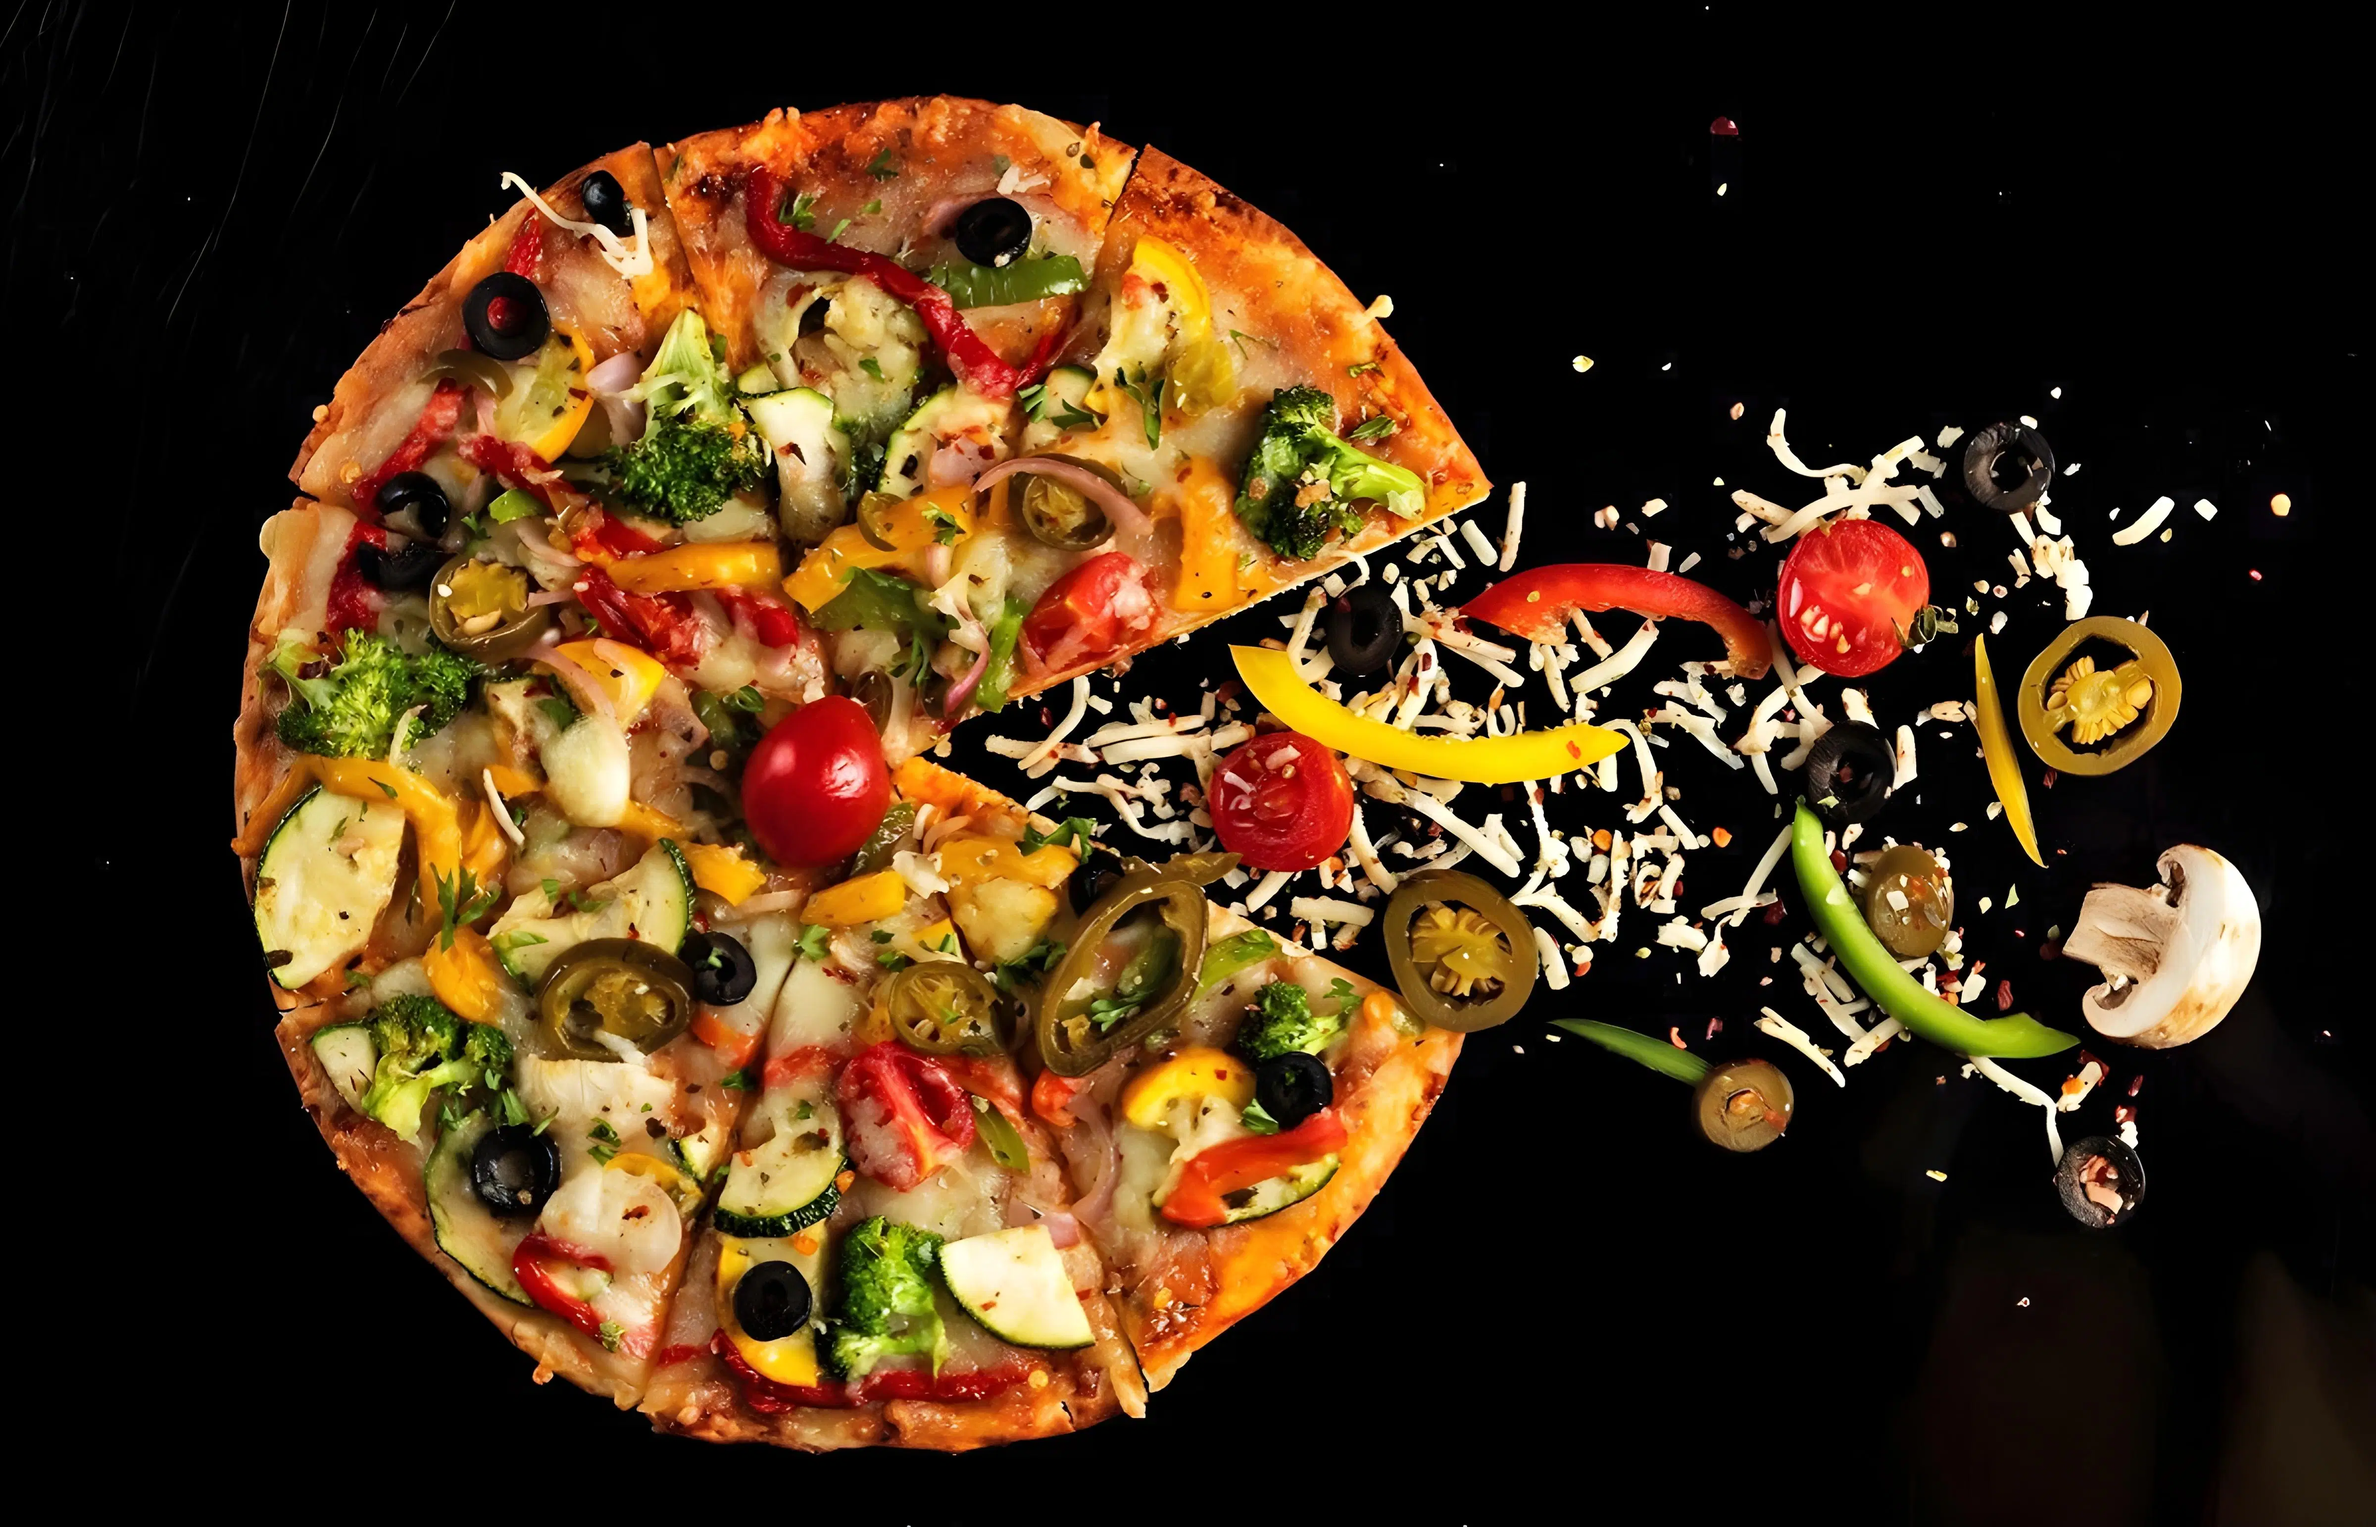
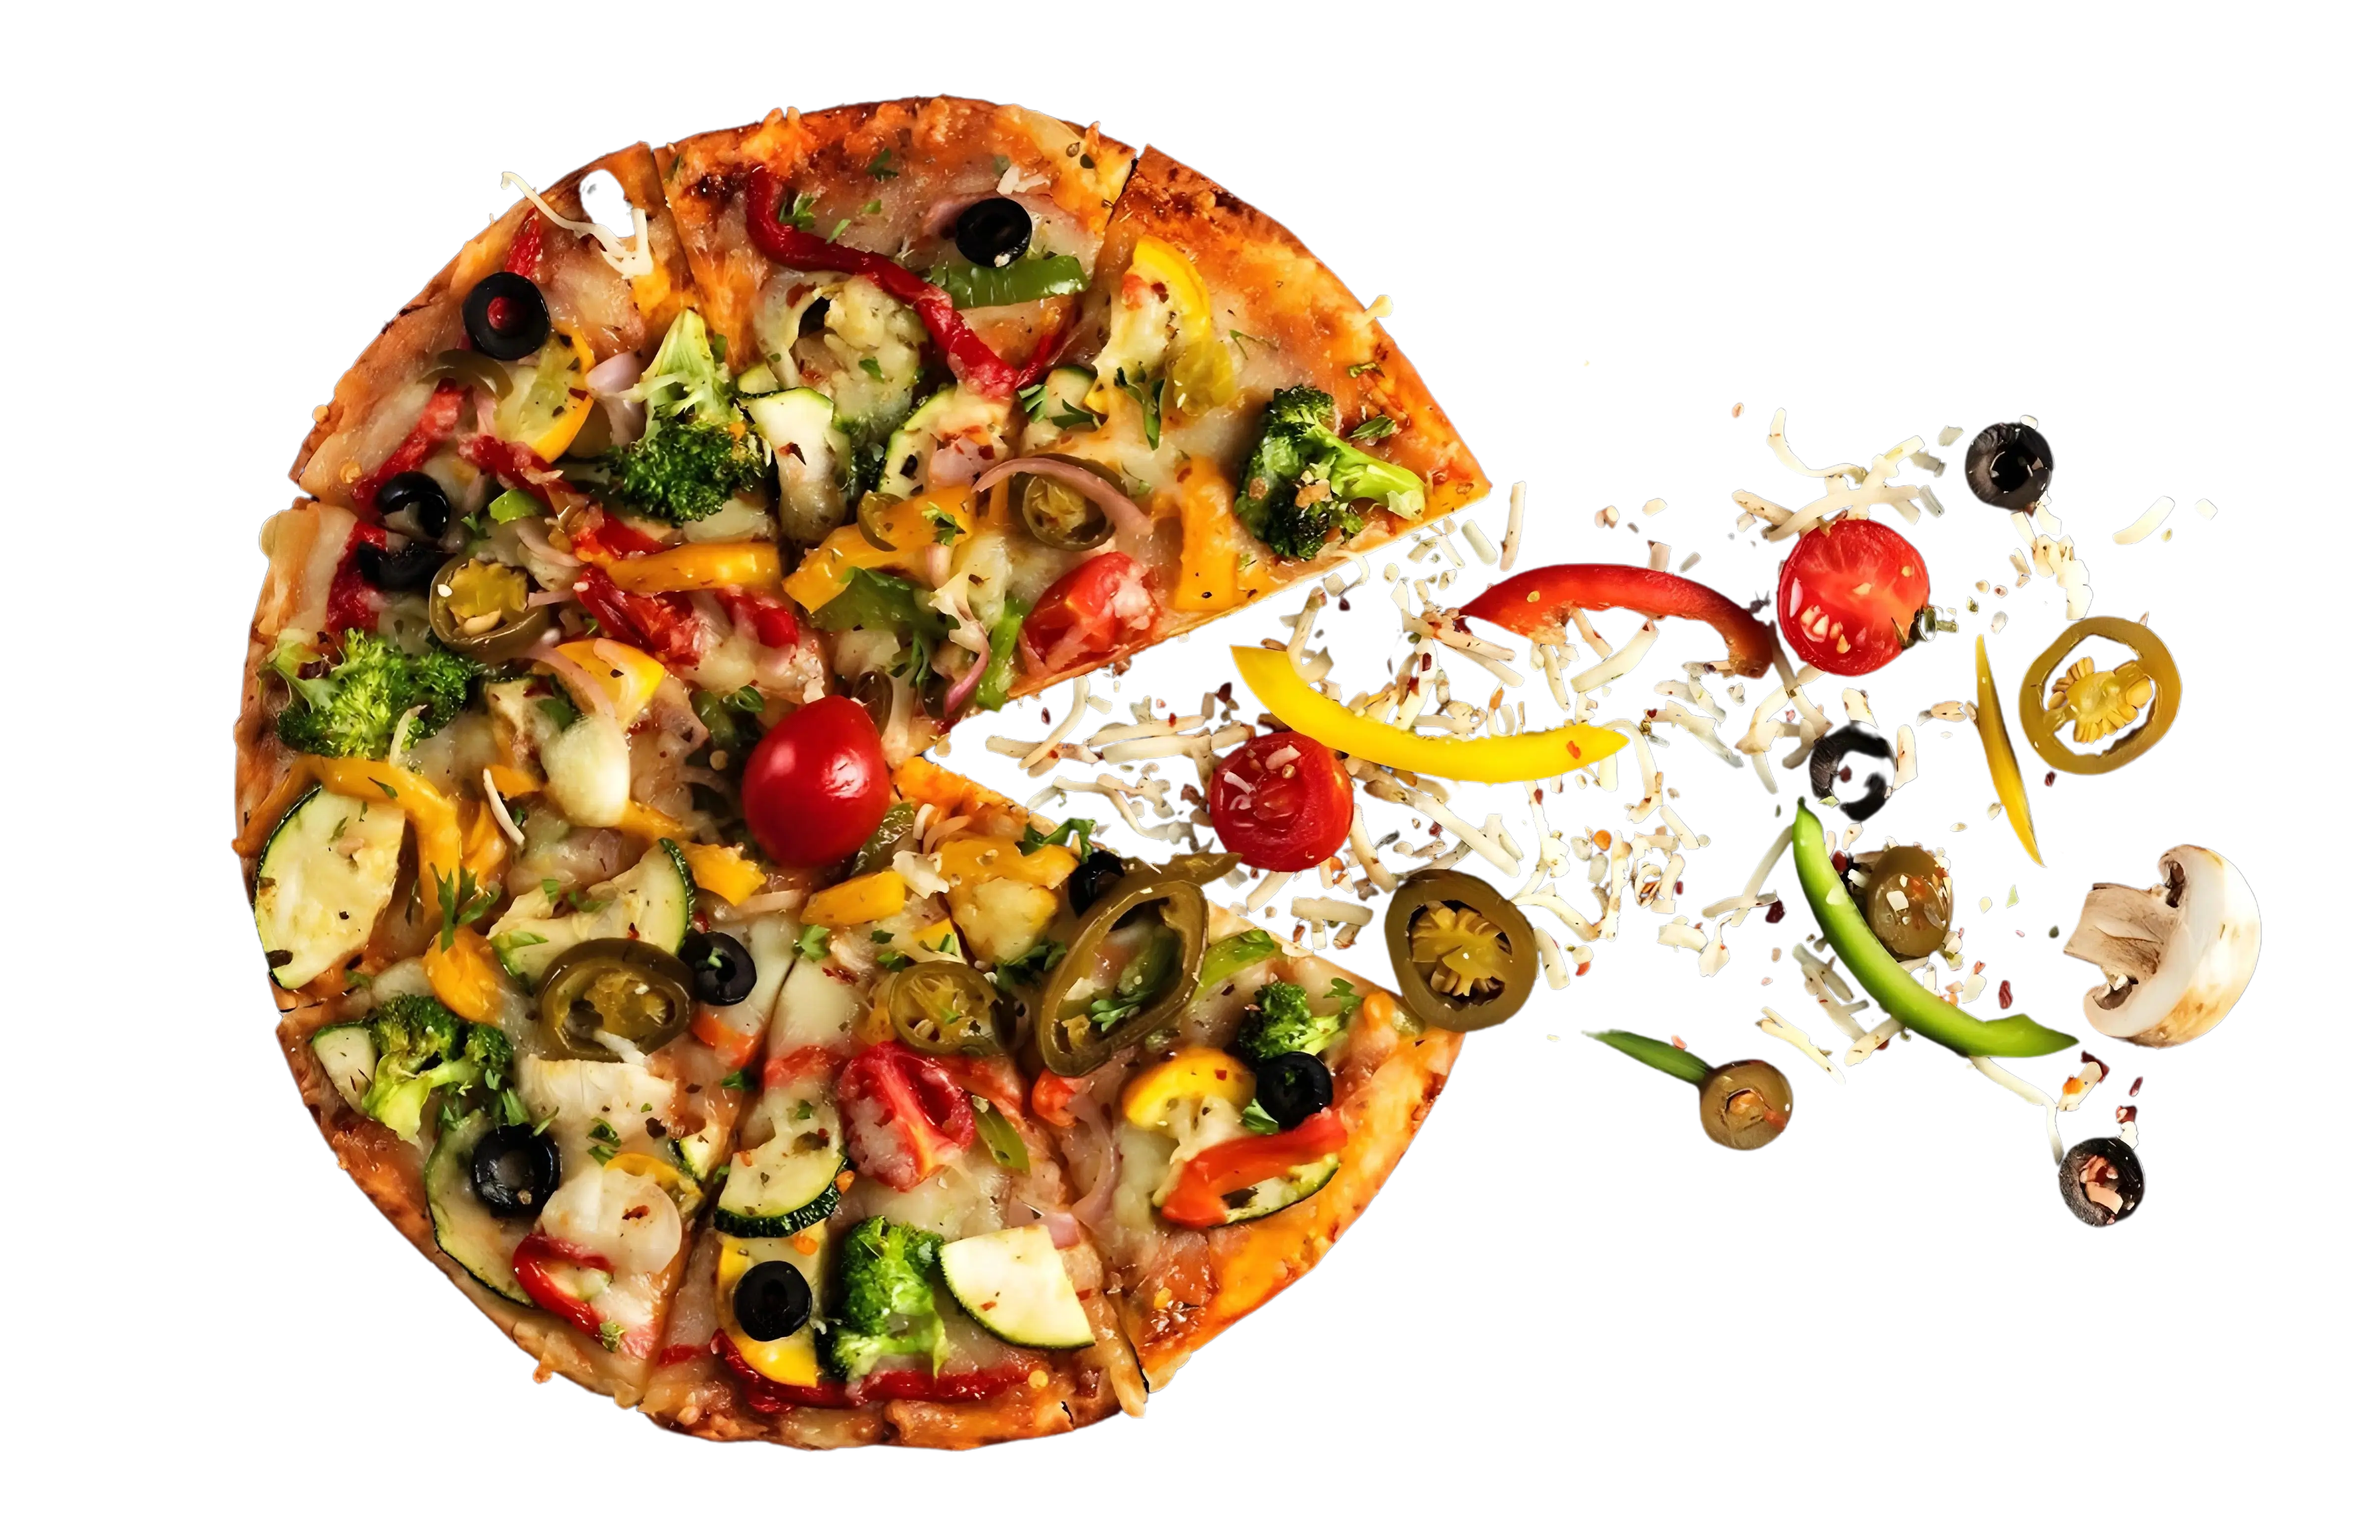
feat : compressing image size to increase the speed and reduce file size

diff --git a/src/app/page.tsx b/src/app/page.tsx
@@ -13,7 +13,7 @@ export default function Home() {
         <div
           className="h-full w-full flex items-center relative"
           style={{
-            backgroundImage: "url(/img/bg/header-bg.png)",
+            backgroundImage: "url(/img/bg/header-bg.webp)",
           }}
         >
           <div className="container w-full flex items-center mt-10 lg:justify-center relative">
@@ -42,7 +42,7 @@ export default function Home() {
             </div>
             <div className="flex-[5] hidden lg:block">
               <Image
-                src="/img/pizza.png"
+                src="/img/pizza.webp"
                 alt="pizza-image"
                 className="w-[800px] h-[600px] object-cover"
                 width={2000}
@@ -65,7 +65,7 @@ export default function Home() {
         </div>
       </div>
       <IntroVideo />
-      <div style={{ background: "url(/img/bg/meal-bg.png)" }}>
+      <div style={{ background: "url(/img/bg/meal-bg.webp)" }}>
         <div className="container mt-20">
           <div className="section-title text-center mb-65">
             <span> POPULAR</span>

diff --git a/src/app/about/IntroVideo.tsx b/src/app/about/IntroVideo.tsx
@@ -10,7 +10,7 @@ const IntroVideo = () => {
       id="video"
       className="video pt-200 pb-200"
       style={{
-        backgroundImage: "url(img/video/video-bg.png)",
+        backgroundImage: "url(img/video/video-bg.webp)",
         backgroundSize: "cover",
         backgroundPosition: "center center",
         backgroundRepeat: "no-repeat",
